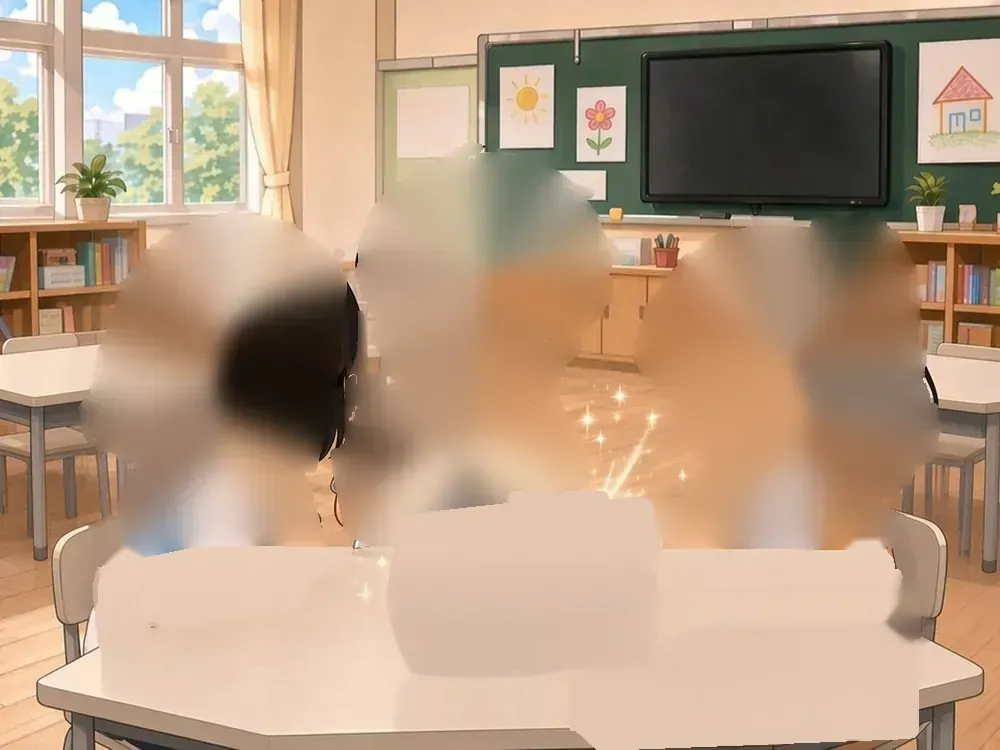
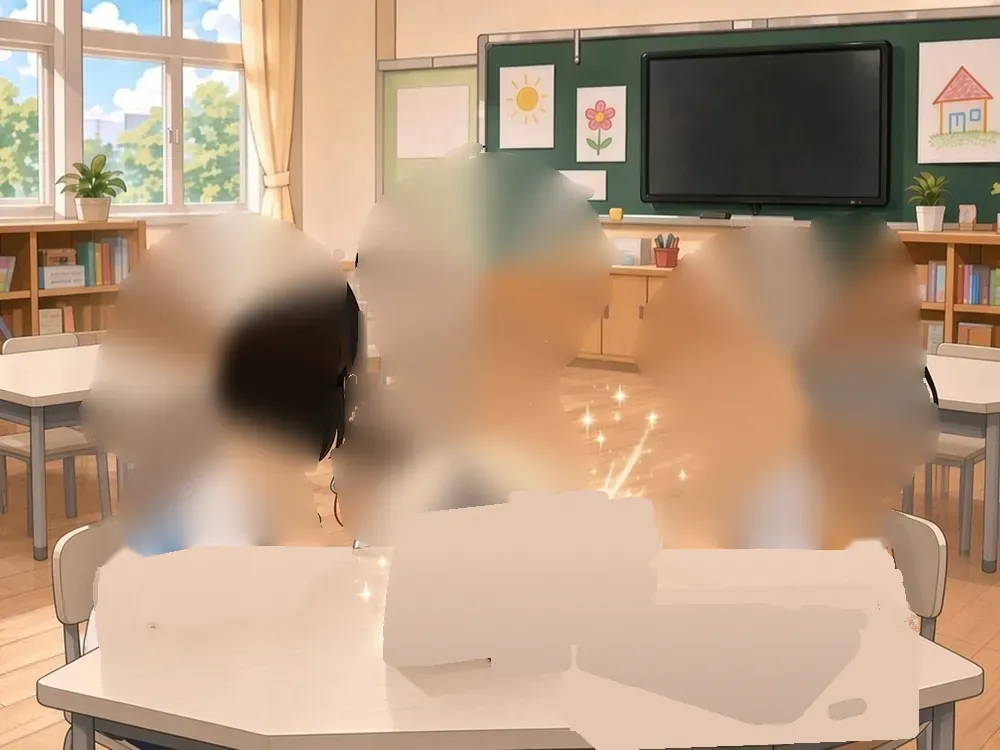
Revert iPad preview to the face-glow fix version (0a844f0) per Lin.

diff --git a/teacher-preview.html b/teacher-preview.html
@@ -572,11 +572,11 @@
   .i-sprite-right{left:61.8%; top:28.2667%; width:32.4%; height:54.6667%}
   .i-sprite-ipad{left:38.9%; top:67.0667%; width:26.4%; height:22%}
   .i-sprite-hands{left:39.4%; top:61.6%; width:15.3%; height:10.5333%}
-  .i-sprite-broken{left:60.2%; top:83.3333%; width:27.2%; height:14.5333%}
+  .i-sprite-broken{left:58.2%; top:81.2%; width:27.9%; height:14.5333%}
   .i-kid-left{transform-origin:21.35% 86%}     /* 原圖 (213.5,645) 腳下 */
   .i-kid-boy, .i-kid-hands{transform-origin:47.9% 75.3333%} /* 原圖 (479,565)：身體與雙手共用同一軸，一起跳才對得齊 */
   .i-kid-right{transform-origin:78% 83%}       /* 原圖 (780,622) */
-  .i-broken{transform-origin:73.65% 92.7333%}  /* 原圖 (736.5,695.5)，隨壞平板右下移 */
+  .i-broken{transform-origin:71.65% 90.6%}     /* 原圖 (716.5,679.5) */
 
   /* 小朋友：整層輕跳歡呼（約 20px），頭上冒星星／愛心（在該小孩層裡，跟著一起跳） */
   .play-left .i-kid-left, .play-boy .i-kid-boy, .play-boy .i-kid-hands, .play-right .i-kid-right{animation:iHop 1.3s cubic-bezier(.3,1.35,.5,1) .05s both}
@@ -634,7 +634,7 @@
   .i-hit-boy{left:33%; top:15%; width:28%; height:48%}
   .i-hit-right{left:62%; top:22%; width:32%; height:50%}
   .i-hit-ipad{left:39%; top:66%; width:26%; height:23%; z-index:8; border-radius:14px}
-  .i-hit-broken{left:60%; top:83.0667%; width:27.6%; height:15.6%; z-index:8; border-radius:14px}
+  .i-hit-broken{left:58%; top:81%; width:28%; height:16%; z-index:8; border-radius:14px}
 
   /* 只限第 3 張、直式版面：左右箭頭移到格子下緣，不擋小朋友的臉；寬螢幕維持原樣 */
   @media not all and (min-width:860px) and (min-height:560px){
@@ -1129,14 +1129,14 @@
 
               <!-- 壞平板層：精靈圖＋灰色小煙（一起抖） -->
               <div class="i-layer i-broken" aria-hidden="true">
-                <img class="i-sprite-broken" src="assets/ipad-class-broken.webp" alt="" width="272" height="109" draggable="false">
+                <img class="i-sprite-broken" src="assets/ipad-class-broken.webp" alt="" width="279" height="109" draggable="false">
                 <svg class="ipad-fx" viewBox="0 0 1000 750" preserveAspectRatio="xMidYMid meet" aria-hidden="true" focusable="false">
                   <g fill="#5A544E" stroke="#2F2B28" stroke-width="2.8">
-                    <circle class="i-smoke" style="--d:.35s;--dx:-14px" cx="692" cy="654" r="15"/>
-                    <circle class="i-smoke" style="--d:.45s;--dx:8px" cx="728" cy="644" r="18"/>
-                    <circle class="i-smoke" style="--d:.55s;--dx:-6px" cx="762" cy="652" r="14"/>
-                    <circle class="i-smoke" style="--d:.65s;--dx:16px" cx="792" cy="646" r="16"/>
-                    <circle class="i-smoke" style="--d:.75s;--dx:-10px" cx="740" cy="664" r="13"/>
+                    <circle class="i-smoke" style="--d:.35s;--dx:-14px" cx="672" cy="638" r="15"/>
+                    <circle class="i-smoke" style="--d:.45s;--dx:8px" cx="708" cy="628" r="18"/>
+                    <circle class="i-smoke" style="--d:.55s;--dx:-6px" cx="742" cy="636" r="14"/>
+                    <circle class="i-smoke" style="--d:.65s;--dx:16px" cx="772" cy="630" r="16"/>
+                    <circle class="i-smoke" style="--d:.75s;--dx:-10px" cx="720" cy="648" r="13"/>
                   </g>
                 </svg>
               </div>
